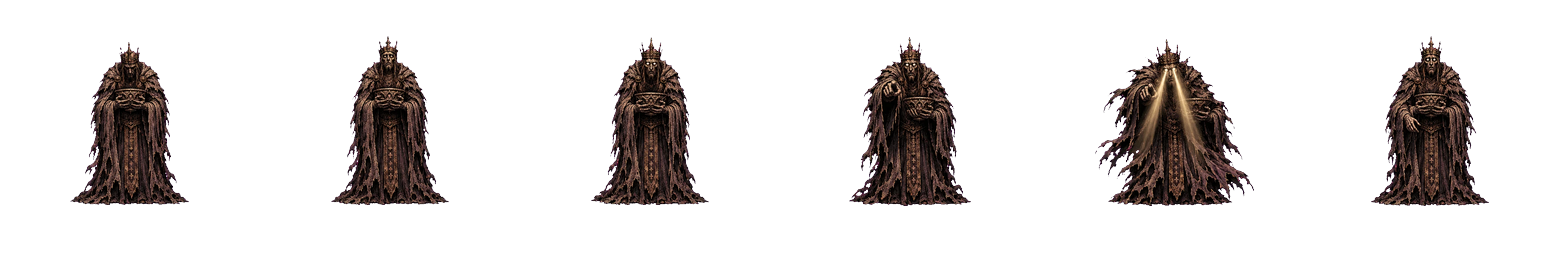
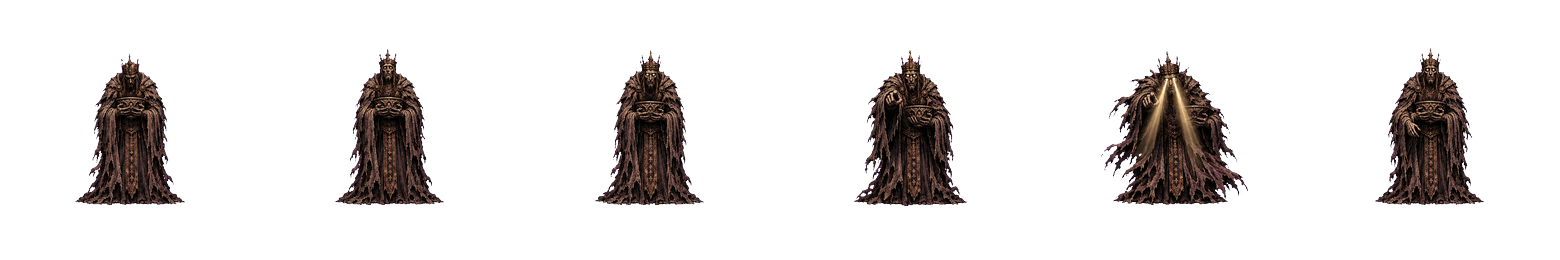
0.4.23: Veo Todo, El llamado y jefes mas resistentes

diff --git a/js/nucleo.js b/js/nucleo.js
@@ -146,9 +146,9 @@ const NUCLEO = (() => {
 
   // ---------- Batalla ----------
   const crearEnemigo = (D, id, i, fuerza, nombre) => {
-    const d = D.enemigos[id], dif = D.mazmorra.dificultad, vida = Math.round(d.vida * fuerza * dif.vida);
+    const d = D.enemigos[id], dif = D.mazmorra.dificultad, vida = Math.round(d.vida * fuerza * dif.vida * (d.jefe ? dif.vida_jefe : 1));
     return { enemigo: true, tipo: id, i, nombre, sprite: d.sprite, imagen: d.imagen || null, vida, vidaMax: vida,
-      golpe: d.ataque.map(n => Math.round(n * dif.dano)), defensa: d.defensa, velocidad: d.velocidad, critico: 0.05, esquiva: 0, exp: d.exp, jefe: !!d.jefe, especial: d.especial || null, robaImpetu: !!d.roba_impetu, turnos: 0, estados: [], fase: d.fase || null, escudos: 0, enfurecido: false, pasoFase: 0, habilidades: d.habilidades || [], resisteFisico: d.resiste_fisico || 0, alMorir: d.al_morir || null, oscuridad: d.oscuridad || null, ultimo: d.ultimo || null };
+      golpe: d.ataque.map(n => Math.round(n * dif.dano)), defensa: d.defensa, velocidad: d.velocidad, critico: 0.05, esquiva: 0, exp: d.exp, jefe: !!d.jefe, especial: d.especial || null, robaImpetu: !!d.roba_impetu, turnos: 0, estados: [], fase: d.fase || null, escudos: 0, enfurecido: false, pasoFase: 0, habilidades: d.habilidades || [], resisteFisico: d.resiste_fisico || 0, alMorir: d.al_morir || null, oscuridad: d.oscuridad || null, ultimo: d.ultimo || null, apresura: d.apresura || 0 };
   };
 
   function iniciarBatalla(D, grupo, ids, emboscada = false) {
@@ -161,7 +161,7 @@ const NUCLEO = (() => {
     const aliados = vivos(grupo);
     aliados.forEach((u, i) => Object.assign(u, { i, impetu: Math.min(IMP_TOPE, u.impetuInicial + (D.clases[u.clase].impetu_inicial || 0)), guardia: false, provoca: 0, defensaExtra: 0, esquivaSegura: false, presa: 0, enganchado: false, hechizado: false, mirado: null, miradoTurnos: 0, estados: [], debil: 0 }));
     const unidades = [...aliados, ...enemigos];
-    for (const e of enemigos) e.aliados = aliados;      // lo que estalla al morir necesita saber a quién alcanza
+    for (const e of enemigos) { e.aliados = aliados; e.pares = enemigos; }      // lo que estalla al morir necesita saber a quién alcanza
     for (const u of unidades) u.reloj = 100 / u.velocidad;
     if (emboscada) enemigos.forEach((u, i) => { u.reloj = i * 0.01; });     // te sorprenden: todos actúan antes que el grupo
     return { aliados, enemigos, unidades, actual: null, muroLlamas: 0, fuerza, lugares: ids.length, antorcha: 100 };
@@ -266,6 +266,7 @@ const NUCLEO = (() => {
 
   function morir(t, eventos) {
     eventos.push({ tipo: 'muerte', quien: t });
+    if (t.apresura) for (const q of vivos(t.pares || [])) if (q.tipo === t.tipo) q.velocidad *= t.apresura;
     const m = t.alMorir;
     if (!m) return;
     t.alMorir = null;
@@ -309,6 +310,7 @@ const NUCLEO = (() => {
   function usarHabilidad(D, b, u, id, objetivo, azar) {
     const h = D.habilidades[id], eventos = [];
     u.impetu -= h.costo;
+    b.ultimaHabilidad = id;
     const blancos = { enemigo: [objetivo], enemigos: vivos(b.enemigos), aliado: [objetivo], aliados: vivos(b.aliados), propio: [u] }[h.objetivo];
     for (const t of blancos) for (const e of h.efectos) {
       if (t.vida <= 0 && e.tipo !== 'cura') continue;
@@ -423,6 +425,14 @@ const NUCLEO = (() => {
   function habilidadEnemiga(b, u, h, grupo, azar, eventos) {
     eventos.push({ tipo: 'texto', clave: 'especial', quien: u, texto: h.nombre });
     if (h.propia === 'guardia') { u.guardia = true; return; }
+    if (h.llama) {
+      // una sola vez por pelea, los caídos vuelven con la mitad de la vida
+      u.llamo = true;
+      const nuevos = b.enemigos.filter(e => e.tipo === h.llama && e.vida <= 0);
+      for (const n of nuevos) { n.vida = Math.round(n.vidaMax / 2); n.reloj = 100 / n.velocidad; n.estados = []; n.muriendo = 0; }
+      eventos.push({ tipo: 'invoca', quien: u, nuevos });
+      return;
+    }
     if (h.refuerza) { for (const e of vivos(b.enemigos)) e.defensaExtra = Math.max(e.defensaExtra || 0, h.refuerza); return; }
     if (h.apaga) { b.antorcha = Math.max(0, b.antorcha - h.apaga); eventos.push({ tipo: 'antorcha', quien: u, valor: h.apaga }); }
     const herido = grupo.find(t => t.provoca > 0) || grupo.slice().sort((x, y) => x.vida / x.vidaMax - y.vida / y.vidaMax)[0];
@@ -448,12 +458,17 @@ const NUCLEO = (() => {
   const pasoDeFase = u => (u.enfurecido && u.fase.ciclo && !u.aturdido && !u.desesperado ? u.fase.ciclo[u.pasoFase % u.fase.ciclo.length] : null);
 
   // Elige la habilidad propia antes del turno: si tiene animación, la pantalla la muestra antes de que pase
-  const elegirPropia = (u, azar, primera) => (primera ? elegir(azar, u.habilidades) : u.habilidades.find(h => azar() < h.prob));
-  function prepararTurno(u, azar) {
+  function elegirPropia(b, u, azar, primera) {
+    const lista = u.habilidades.filter(h => !h.llama || (!u.llamo && b.enemigos.some(e => e.tipo === h.llama && e.vida <= 0)));
+    return primera ? lista.length && elegir(azar, lista) : lista.find(h => azar() < h.prob);
+  }
+  const haraTurnoComun = u => !u.especial || (u.turnos % u.especial.cada !== 0);
+  const veTodo = (b, u) => !!(u.enfurecido && u.fase.veo && b.ultimaHabilidad);
+  function prepararTurno(D, b, u, azar) {
     const paso = pasoDeFase(u);
     u.proxima = undefined;
-    if (u.aturdido || u.desesperado || haraEspecial(u) || enSuTrono(u) || (paso && paso !== 'golpe')) return null;
-    u.proxima = elegirPropia(u, azar, u.turnos === 0) || null;
+    if (u.aturdido || u.desesperado || haraEspecial(u) || enSuTrono(u) || veTodo(b, u) || (paso && paso !== 'golpe')) return null;
+    u.proxima = elegirPropia(b, u, azar, u.turnos === 0) || null;
     return u.proxima;
   }
 
@@ -468,6 +483,24 @@ const NUCLEO = (() => {
     return (u.turnos + 1) % u.especial.cada === 0;
   };
 
+  // Le devuelve al grupo la última habilidad que usó, con menos fuerza que la original
+  function devolverHabilidad(D, b, u, grupo, azar, eventos) {
+    const h = D.habilidades[b.ultimaHabilidad], blancos = ['enemigos', 'aliados'].includes(h.objetivo) ? grupo : [blancoEnemigo(grupo, azar, u)];
+    b.ultimaHabilidad = null;
+    eventos.push({ tipo: 'texto', clave: 'especial', quien: u, texto: `te devuelve ${h.nombre}` });
+    for (const e of h.efectos) {
+      if (e.tipo === 'cura') { const v = Math.round(u.vidaMax * e.porcentaje * 0.3); u.vida = clampN(u.vida + v, 0, u.vidaMax); eventos.push({ tipo: 'cura', quien: u, valor: v }); }
+      if (e.tipo === 'defensa') u.defensaExtra = Math.max(u.defensaExtra || 0, e.valor);
+      for (const t of blancos) {
+        if (t.vida <= 0) continue;
+        if (e.tipo === 'dano') golpeEnemigo(u, t, azar, eventos, (e.mult || 1) * 0.7);
+        if (e.tipo === 'dano_fijo') herir(t, entre(azar, e.min, e.max), eventos);
+        if (e.tipo === 'veneno' || e.tipo === 'quemadura') aplicarEstado(t, e, azar, eventos);
+        if (e.tipo === 'sangrado') sangrar(t, e, azar, eventos);
+      }
+    }
+  }
+
   function turnoEnemigo(D, b, u, azar) {
     const eventos = [], grupo = vivos(b.aliados);
     if (u.aturdido) { u.aturdido = false; eventos.push({ tipo: 'texto', clave: 'pierde_turno', quien: u }); return eventos; }
@@ -481,10 +514,11 @@ const NUCLEO = (() => {
       herir(t, entre(azar, ...r.dano), eventos);
       return eventos;
     }
+    if (haraTurnoComun(u) && veTodo(b, u)) { devolverHabilidad(D, b, u, grupo, azar, eventos); return eventos; }
     if (u.enfurecido && u.fase.ciclo) { if (habilidadDeFase(D, b, u, grupo, azar, eventos)) return eventos; }
     else if (u.especial && u.turnos % u.especial.cada === 0) { especialDeJefe(u, grupo, azar, eventos); return eventos; }
     // la muestra enseguida: muchos enemigos no duran más de un par de turnos
-    const propia = u.proxima !== undefined ? u.proxima : elegirPropia(u, azar, u.turnos === 1);
+    const propia = u.proxima !== undefined ? u.proxima : elegirPropia(b, u, azar, u.turnos === 1);
     u.proxima = undefined;
     if (propia) { habilidadEnemiga(b, u, propia, grupo, azar, eventos); return eventos; }
     const t = blancoEnemigo(grupo, azar, u);

diff --git a/js/juego.js b/js/juego.js
@@ -1251,7 +1251,7 @@ function siguiente() {
   if (u.vida <= 0) return later(500, siguiente);
   if (u.enemigo) {
     Bt.fase = 'espera'; Bt.msg = ''; pintarBatalla();
-    const propia = NUCLEO.prepararTurno(u, azarX);
+    const propia = NUCLEO.prepararTurno(D, Bt.b, u, azarX);
     const hoja = NUCLEO.haraEspecial(u) ? D.enemigos[u.tipo].golpe_especial : NUCLEO.pasoDeFase(u) === 'gancho' ? u.fase.gancho.hoja : propia && propia.hoja;
     if (hoja && cuadrosEspeciales(u, hoja)) return golpeImponente(u, hoja);
     iniciarAtaqueAnimado(u);
@@ -1285,7 +1285,7 @@ function golpeImponente(u, r) {
   later(r.impacto * 1000, () => {
     if (!Bt) return;
     mostrar(NUCLEO.turnoEnemigo(D, Bt.b, u, azarX));
-    if (['gancho', 'mirada', 'ceniza'].includes(r.efecto)) { Bt.temblor = 6; Bt.destello = 0.4; Bt.congelado = 0.1; sfx('slash'); }
+    if (['gancho', 'mirada', 'ceniza', 'llamado'].includes(r.efecto)) { Bt.temblor = 6; Bt.destello = 0.4; Bt.congelado = 0.1; sfx('slash'); }
     else {
       if (r.efecto === 'campanada') Bt.fx.push({ tipo: 'onda', x: u.x, y: FBASE - 70, t: 0, dur: 0.75, m: 1 });
       else if (r.efecto === 'caida') { golpePixel('golpe', u); golpePixel('critico', u); } else golpePixel('barrido', u);
@@ -1316,7 +1316,7 @@ function mostrarEvento(e) {
   }
   if (e.tipo === 'antorcha') { P.fuel = Math.max(0, P.fuel - e.valor); updateHUD(); }
   if (e.tipo === 'invoca') { for (const n of e.nuevos) { n.x = Bt.lugares[n.i]; prepararEnemigo(n); chispas(n.x, FBASE - 24, 18, MARCO.vida, -24); } sfx('encounter'); Bt.temblor = 4; }
-  if (e.tipo === 'fase' && (q.fase.trono || q.fase.caceria)) { q.tronoDesde = Bt.t; q.hojaFija = q.fase.trono || q.fase.caceria; }
+  if (e.tipo === 'fase' && (q.fase.trono || q.fase.caceria || q.fase.veo)) { q.tronoDesde = Bt.t; q.hojaFija = q.fase.trono || q.fase.caceria || q.fase.veo; }
   if (e.tipo === 'fase' && q.fase.caceria) Bt.penumbra = 0.6;
   if (e.tipo === 'texto' && e.clave === 'penumbra') { Bt.msg = 'Golpe al humo. Pegale justo después de que ataque.'; sfx('miss'); }
   if (e.tipo === 'desesperado') { q.tronoDesde = Bt.t; q.hojaFija = q.ultimo.hoja; Bt.msg = tr(q.ultimo.mensaje, q.nombre); Bt.temblor = 8; Bt.destello = 0.5; sfx('encounter'); }

diff --git a/js/animar.js b/js/animar.js
@@ -121,7 +121,7 @@ function prepararPoses(e) {
 
 // El golpe especial dibujado cuadro por cuadro (campo "golpe_especial" de enemigos.json): una hoja con un cuadro al lado del otro
 const HOJAS_ESPECIAL = {}, CUADROS_ESPECIAL = {};
-for (const d of Object.values(D.enemigos)) for (const r of [d.golpe_especial, d.fase && d.fase.trono, d.fase && d.fase.caceria, d.fase && d.fase.gancho && d.fase.gancho.hoja, d.ultimo && d.ultimo.hoja, ...(d.habilidades || []).map(h => h.hoja)]) if (r) HOJAS_ESPECIAL[r.imagen] = Object.assign(new Image(), { src: `interfaz/enemigos/${r.imagen}.png` });
+for (const d of Object.values(D.enemigos)) for (const r of [d.golpe_especial, d.fase && d.fase.trono, d.fase && d.fase.caceria, d.fase && d.fase.veo, d.fase && d.fase.gancho && d.fase.gancho.hoja, d.ultimo && d.ultimo.hoja, ...(d.habilidades || []).map(h => h.hoja)]) if (r) HOJAS_ESPECIAL[r.imagen] = Object.assign(new Image(), { src: `interfaz/enemigos/${r.imagen}.png` });
 
 function cuadrosEspeciales(e, r = D.enemigos[e.tipo].golpe_especial) {
   const hoja = r && HOJAS_ESPECIAL[r.imagen];

diff --git a/index.html b/index.html
@@ -22,7 +22,7 @@
     <img class="tfondo" src="interfaz/intro/velombra_apagada.png" alt="">
     <img class="t1" src="interfaz/logo.png" alt="The Last Flame">
     <div class="t2" data-tr="Un descenso a la Cripta de Vel’Ombra">Un descenso a la Cripta de Vel’Ombra</div>
-    <div class="tver">v0.4.22<span id="tPrueba"></span></div>
+    <div class="tver">v0.4.23<span id="tPrueba"></span></div>
     <div class="t4" data-kb="WASD / flechas: moverse · Q E: girar · Enter: interactuar · I: inventario · P: poción · O: aceite · F11: pantalla completa">WASD / flechas: moverse · Q E: girar · Enter: interactuar · I: inventario · P: poción · O: aceite · F11: pantalla completa</div>
   </div>
 

diff --git a/ROADMAP.md b/ROADMAP.md
@@ -2,7 +2,7 @@
 
 El camino del juego es la expedición de grupo. El plan del juego anterior está en `juego_viejo/ROADMAP.md`.
 
-**Versión actual: 0.4.22.** Lo próximo: 0.5.0.
+**Versión actual: 0.4.23.** Lo próximo: 0.5.0.
 
 ## Cómo se numeran las versiones
 
@@ -61,9 +61,6 @@ Ideas aprobadas, para hacer con sprites propios (hojas de 6 cuadros, `golpe_espe
 
 - Lo que hiciste: Debilitado a un personaje y a quien tenga vínculo con él.
 - Sin oscuridad: durante 2 turnos, curar a un aliado también daña a quien cura.
-- Que ningún hombre descanse: si muere un Apagado, los demás ganan velocidad.
-- Los cuarenta: una vez por pelea, los Apagados caídos se levantan con poca vida.
-- Veo Todo (en su furia): repite contra el grupo la última habilidad que usó el grupo.
 
 ## Historia
 
@@ -111,6 +108,12 @@ La idea que une todo es una regla de las Guardianas: "quien le pida algo va a re
 - **Título:** el logo "The Last Flame" no cambia con el idioma.
 
 ## Historial
+
+### 0.4.23
+
+- Aldemar: Veo Todo, su furia, le devuelve al grupo su última habilidad. El llamado levanta a los Apagados caídos una vez por pelea, y al morir uno los demás se apuran.
+- Los jefes tienen 50% más de vida (`vida_jefe` en `datos/mazmorra.json`).
+- Las animaciones de jefes ya no agrandan el dibujo.
 
 ### 0.4.22
 
